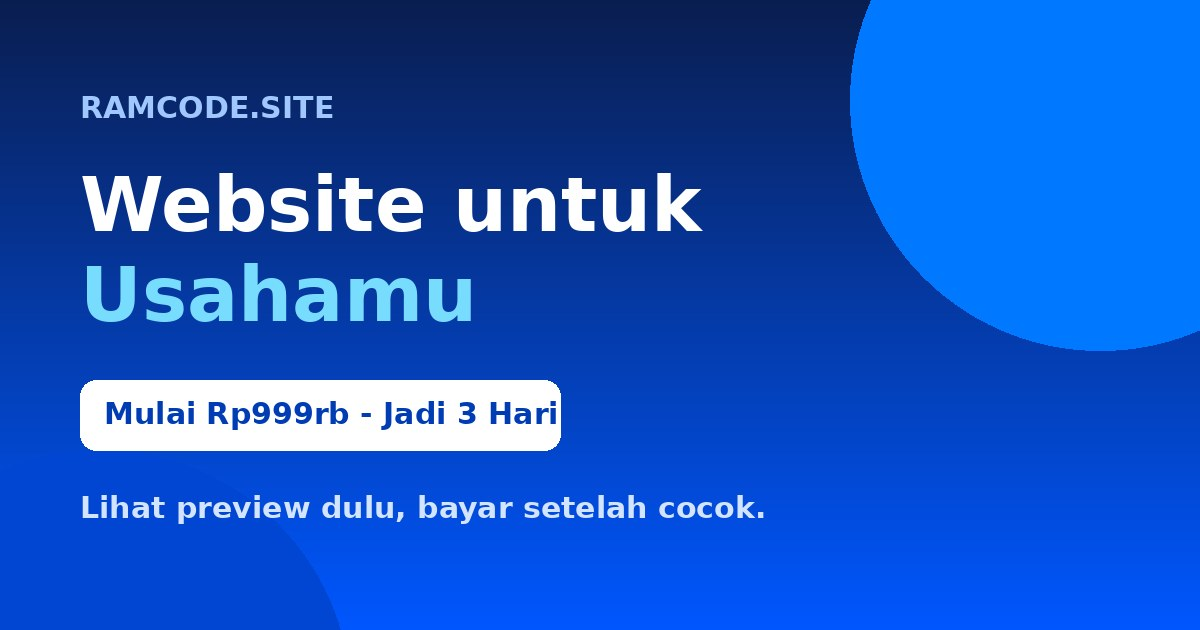
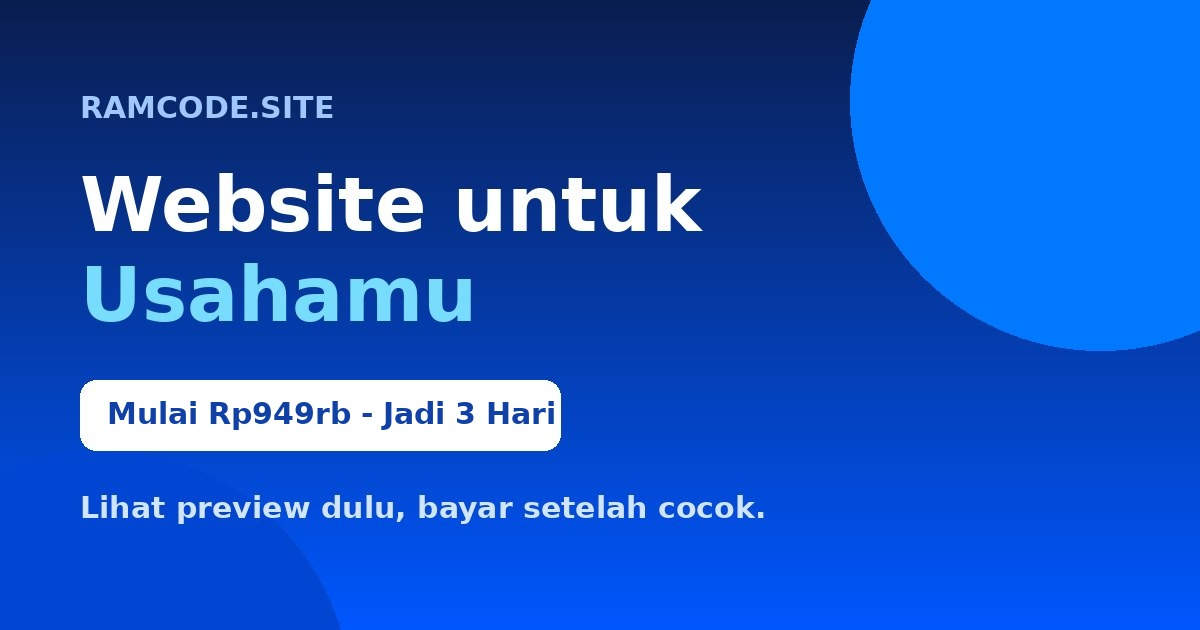
Harga Landing Page Rp999rb -> Rp949rb (incl. OG image), klaim project 12+ -> 20+

Changed region(s): [[0.0617, 0.6333, 0.3083, 0.6937], [0.3392, 0.6333, 0.4625, 0.6937]]

diff --git a/index.html b/index.html
@@ -6,7 +6,7 @@
     <!-- Primary Meta Tags -->
     <title>Ramcode.site - Jasa Pembuatan Website Bandung yang Menghasilkan</title>
     <meta name="title" content="Ramcode.site - Jasa Pembuatan Website Bandung yang Menghasilkan">
-    <meta name="description" content="Jasa pembuatan website Bandung untuk UMKM dan personal brand. Landing page mulai Rp999rb, jadi 3 hari, bayar setelah lihat preview. Bisa sistem kasir, booking, dan AI chat 24 jam.">
+    <meta name="description" content="Jasa pembuatan website Bandung untuk UMKM dan personal brand. Landing page mulai Rp949rb, jadi 3 hari, bayar setelah lihat preview. Bisa sistem kasir, booking, dan AI chat 24 jam.">
 
     <link rel="canonical" href="https://ramcode.site/">
 
@@ -14,14 +14,14 @@
     <meta property="og:type" content="website">
     <meta property="og:url" content="https://ramcode.site/">
     <meta property="og:title" content="Ramcode.site - Jasa Pembuatan Website Bandung yang Menghasilkan">
-    <meta property="og:description" content="Website untuk UMKM Bandung mulai Rp999rb, jadi 3 hari. Lihat preview dulu, bayar setelah cocok.">
+    <meta property="og:description" content="Website untuk UMKM Bandung mulai Rp949rb, jadi 3 hari. Lihat preview dulu, bayar setelah cocok.">
     <meta property="og:image" content="https://ramcode.site/og-image.jpg">
 
     <!-- Twitter -->
     <meta property="twitter:card" content="summary_large_image">
     <meta property="twitter:url" content="https://ramcode.site/">
     <meta property="twitter:title" content="Ramcode.site - Jasa Pembuatan Website Bandung yang Menghasilkan">
-    <meta property="twitter:description" content="Website untuk UMKM Bandung mulai Rp999rb, jadi 3 hari. Lihat preview dulu, bayar setelah cocok.">
+    <meta property="twitter:description" content="Website untuk UMKM Bandung mulai Rp949rb, jadi 3 hari. Lihat preview dulu, bayar setelah cocok.">
 
     <meta property="twitter:image" content="https://ramcode.site/og-image.jpg">
 
@@ -36,7 +36,7 @@
         "@id": "https://ramcode.site",
         "url": "https://ramcode.site",
         "telephone": "+6287792182223",
-        "priceRange": "Rp999.000 - Rp4.900.000",
+        "priceRange": "Rp949.000 - Rp4.900.000",
         "address": {
           "@type": "PostalAddress",
           "addressLocality": "Bandung",
@@ -247,7 +247,7 @@
                             <span class="text-[8px] md:text-[9px] font-bold text-slate-400 uppercase tracking-widest">Mulai Dari</span>
                         </div>
                         <div>
-                            <p class="text-2xl md:text-3xl font-extrabold text-accent group-hover:text-primary transition-colors leading-none">Rp999rb</p>
+                            <p class="text-2xl md:text-3xl font-extrabold text-accent group-hover:text-primary transition-colors leading-none">Rp949rb</p>
                             <p class="text-[9px] md:text-[10px] font-bold uppercase tracking-widest text-slate-400 mt-2">Website Jadi 3 Hari</p>
                         </div>
                     </a>
@@ -364,7 +364,7 @@
                     <div class="flex flex-wrap items-center gap-4 md:gap-6">
                         <div class="text-center px-4">
                             <p class="text-[9px] font-bold uppercase tracking-widest text-slate-400 mb-1">Landing Page <span class="text-green-600">· Promo</span></p>
-                            <p class="text-xl md:text-2xl font-extrabold text-accent"><span class="text-xs font-bold text-slate-400 line-through mr-1">Rp1,49jt</span>Rp999rb</p>
+                            <p class="text-xl md:text-2xl font-extrabold text-accent"><span class="text-xs font-bold text-slate-400 line-through mr-1">Rp1,49jt</span>Rp949rb</p>
                         </div>
                         <div class="text-center px-4 border-x border-ocean-border">
                             <p class="text-[9px] font-bold uppercase tracking-widest text-slate-400 mb-1">Website Bisnis</p>
@@ -444,7 +444,7 @@
                 </div>
                 <div class="col-span-12 lg:col-span-5 bento-block bg-primary p-8 md:p-12 flex flex-col items-center justify-center text-center relative overflow-hidden group">
                     <div class="bg-white/10 p-10 md:p-12 rounded-2xl backdrop-blur-sm border border-white/20 z-10 transition-transform group-hover:scale-110">
-                        <span class="text-6xl md:text-7xl font-extrabold text-white block mb-2">12+</span>
+                        <span class="text-6xl md:text-7xl font-extrabold text-white block mb-2">20+</span>
                         <p class="text-white/80 font-bold uppercase tracking-[0.3em] text-[10px]">Proyek Dikerjakan</p>
                     </div>
                     <div class="absolute top-0 right-0 p-4 transition-opacity group-hover:opacity-40 opacity-20">
@@ -697,7 +697,7 @@
                     
                     <div class="relative z-20">
                         <h2 class="text-4xl md:text-8xl font-extrabold tracking-tighter text-white mb-6 md:mb-10 leading-[1] md:leading-[0.9]">Usahamu Layak <br/><span class="text-primary italic">Dilirik</span></h2>
-                        <p class="text-base md:text-xl text-slate-400 max-w-2xl mx-auto mb-10 md:mb-16 leading-relaxed">Ceritakan usahamu, kami buatkan preview websitenya gratis. Cocok baru bayar, mulai Rp999rb, jadi 3 hari.</p>
+                        <p class="text-base md:text-xl text-slate-400 max-w-2xl mx-auto mb-10 md:mb-16 leading-relaxed">Ceritakan usahamu, kami buatkan preview websitenya gratis. Cocok baru bayar, mulai Rp949rb, jadi 3 hari.</p>
                         
                         <div class="flex flex-wrap justify-center gap-6 md:gap-8">
                             <a href="https://wa.me/6287792182223?text=Halo%20Ramcode,%20saya%20mau%20dibuatkan%20preview%20website%20untuk%20usaha%20saya" target="_blank" class="bg-primary text-white px-8 md:px-12 py-4 md:py-5 font-extrabold text-sm uppercase tracking-[0.2em] md:tracking-[0.3em] hover:bg-white hover:text-accent transition-all rounded-xl md:rounded-2xl shadow-2xl shadow-primary/40 transform hover:-translate-y-1 flex items-center justify-center">

diff --git a/layanan.html b/layanan.html
@@ -6,7 +6,7 @@
     <!-- Primary Meta Tags -->
     <title>Layanan - Ramcode.site</title>
     <meta name="title" content="Layanan - Ramcode.site">
-    <meta name="description" content="Jasa pembuatan website Bandung untuk UMKM dan personal brand. Landing page mulai Rp999rb, jadi 3 hari, bayar setelah lihat preview. Bisa sistem kasir, booking, dan AI chat 24 jam.">
+    <meta name="description" content="Jasa pembuatan website Bandung untuk UMKM dan personal brand. Landing page mulai Rp949rb, jadi 3 hari, bayar setelah lihat preview. Bisa sistem kasir, booking, dan AI chat 24 jam.">
 
     <link rel="canonical" href="https://ramcode.site/layanan.html">
 
@@ -14,14 +14,14 @@
     <meta property="og:type" content="website">
     <meta property="og:url" content="https://ramcode.site/layanan.html">
     <meta property="og:title" content="Layanan & Harga - Ramcode.site">
-    <meta property="og:description" content="Website untuk UMKM Bandung mulai Rp999rb, jadi 3 hari. Lihat preview dulu, bayar setelah cocok.">
+    <meta property="og:description" content="Website untuk UMKM Bandung mulai Rp949rb, jadi 3 hari. Lihat preview dulu, bayar setelah cocok.">
     <meta property="og:image" content="https://ramcode.site/og-image.jpg">
 
     <!-- Twitter -->
     <meta property="twitter:card" content="summary_large_image">
     <meta property="twitter:url" content="https://ramcode.site/layanan.html">
     <meta property="twitter:title" content="Layanan & Harga - Ramcode.site">
-    <meta property="twitter:description" content="Website untuk UMKM Bandung mulai Rp999rb, jadi 3 hari. Lihat preview dulu, bayar setelah cocok.">
+    <meta property="twitter:description" content="Website untuk UMKM Bandung mulai Rp949rb, jadi 3 hari. Lihat preview dulu, bayar setelah cocok.">
 
     <meta property="twitter:image" content="https://ramcode.site/og-image.jpg">
 
@@ -36,7 +36,7 @@
         "@id": "https://ramcode.site",
         "url": "https://ramcode.site",
         "telephone": "+6287792182223",
-        "priceRange": "Rp999.000 - Rp4.900.000",
+        "priceRange": "Rp949.000 - Rp4.900.000",
         "address": {
           "@type": "PostalAddress",
           "addressLocality": "Bandung",
@@ -292,7 +292,7 @@
                             </div>
                             <h4 class="text-xl font-extrabold text-accent mb-2">Landing Page</h4>
                             <p class="text-sm font-bold text-slate-400 line-through mb-0.5">Rp1,49jt</p>
-                            <p class="text-3xl md:text-4xl font-extrabold text-accent mb-1">Rp999<span class="text-base font-bold text-slate-400">rb</span></p>
+                            <p class="text-3xl md:text-4xl font-extrabold text-accent mb-1">Rp949<span class="text-base font-bold text-slate-400">rb</span></p>
                             <p class="text-[10px] font-bold uppercase tracking-widest text-slate-400 mb-6">Sekali bayar</p>
                             <ul class="text-sm text-slate-500 leading-relaxed space-y-3 mb-8 flex-1">
                                 <li class="flex gap-2"><span class="material-symbols-outlined text-primary text-base">check</span>1 halaman fokus jualan, desain custom sesuai brand</li>
@@ -309,7 +309,7 @@
                                 <li class="flex gap-2"><span class="material-symbols-outlined text-primary text-base">check</span>3x revisi mayor (besar)</li>
                                 <li class="flex gap-2"><span class="material-symbols-outlined text-primary text-base">check</span>Lihat preview dulu, bayar kalau cocok</li>
                             </ul>
-                            <a href="https://wa.me/6287792182223?text=Halo%20Ramcode,%20saya%20tertarik%20paket%20Landing%20Page%20Rp999rb" target="_blank" class="w-full border border-ocean-border bg-white px-6 py-3.5 font-bold text-[10px] uppercase tracking-widest hover:bg-primary hover:text-white hover:border-primary transition-all rounded-xl flex items-center justify-center">
+                            <a href="https://wa.me/6287792182223?text=Halo%20Ramcode,%20saya%20tertarik%20paket%20Landing%20Page%20Rp949rb" target="_blank" class="w-full border border-ocean-border bg-white px-6 py-3.5 font-bold text-[10px] uppercase tracking-widest hover:bg-primary hover:text-white hover:border-primary transition-all rounded-xl flex items-center justify-center">
                                 Pilih Paket Ini
                             </a>
                         </div>
@@ -430,7 +430,7 @@
                 </div>
                 <div class="col-span-12 lg:col-span-5 bento-block bg-primary p-8 md:p-12 flex flex-col items-center justify-center text-center relative overflow-hidden group">
                     <div class="bg-white/10 p-10 md:p-12 rounded-2xl backdrop-blur-sm border border-white/20 z-10 transition-transform group-hover:scale-110">
-                        <span class="text-6xl md:text-7xl font-extrabold text-white block mb-2">12+</span>
+                        <span class="text-6xl md:text-7xl font-extrabold text-white block mb-2">20+</span>
                         <p class="text-white/80 font-bold uppercase tracking-[0.3em] text-[10px]">Proyek Dikerjakan</p>
                     </div>
                     <div class="absolute top-0 right-0 p-4 transition-opacity group-hover:opacity-40 opacity-20">

diff --git a/faq.html b/faq.html
@@ -6,7 +6,7 @@
     <!-- Primary Meta Tags -->
     <title>FAQ - Ramcode.site</title>
     <meta name="title" content="FAQ - Ramcode.site">
-    <meta name="description" content="Jasa pembuatan website Bandung untuk UMKM dan personal brand. Landing page mulai Rp999rb, jadi 3 hari, bayar setelah lihat preview. Bisa sistem kasir, booking, dan AI chat 24 jam.">
+    <meta name="description" content="Jasa pembuatan website Bandung untuk UMKM dan personal brand. Landing page mulai Rp949rb, jadi 3 hari, bayar setelah lihat preview. Bisa sistem kasir, booking, dan AI chat 24 jam.">
 
     <link rel="canonical" href="https://ramcode.site/faq.html">
 
@@ -14,14 +14,14 @@
     <meta property="og:type" content="website">
     <meta property="og:url" content="https://ramcode.site/faq.html">
     <meta property="og:title" content="FAQ - Ramcode.site">
-    <meta property="og:description" content="Website untuk UMKM Bandung mulai Rp999rb, jadi 3 hari. Lihat preview dulu, bayar setelah cocok.">
+    <meta property="og:description" content="Website untuk UMKM Bandung mulai Rp949rb, jadi 3 hari. Lihat preview dulu, bayar setelah cocok.">
     <meta property="og:image" content="https://ramcode.site/og-image.jpg">
 
     <!-- Twitter -->
     <meta property="twitter:card" content="summary_large_image">
     <meta property="twitter:url" content="https://ramcode.site/faq.html">
     <meta property="twitter:title" content="FAQ - Ramcode.site">
-    <meta property="twitter:description" content="Website untuk UMKM Bandung mulai Rp999rb, jadi 3 hari. Lihat preview dulu, bayar setelah cocok.">
+    <meta property="twitter:description" content="Website untuk UMKM Bandung mulai Rp949rb, jadi 3 hari. Lihat preview dulu, bayar setelah cocok.">
 
     <meta property="twitter:image" content="https://ramcode.site/og-image.jpg">
 
@@ -36,7 +36,7 @@
         "@id": "https://ramcode.site",
         "url": "https://ramcode.site",
         "telephone": "+6287792182223",
-        "priceRange": "Rp999.000 - Rp4.900.000",
+        "priceRange": "Rp949.000 - Rp4.900.000",
         "address": {
           "@type": "PostalAddress",
           "addressLocality": "Bandung",
@@ -321,7 +321,7 @@
                     
                     <div class="relative z-20">
                         <h2 class="text-4xl md:text-8xl font-extrabold tracking-tighter text-white mb-6 md:mb-10 leading-[1] md:leading-[0.9]">Usahamu Layak <br/><span class="text-primary italic">Dilirik</span></h2>
-                        <p class="text-base md:text-xl text-slate-400 max-w-2xl mx-auto mb-10 md:mb-16 leading-relaxed">Ceritakan usahamu, kami buatkan preview websitenya gratis. Cocok baru bayar, mulai Rp999rb, jadi 3 hari.</p>
+                        <p class="text-base md:text-xl text-slate-400 max-w-2xl mx-auto mb-10 md:mb-16 leading-relaxed">Ceritakan usahamu, kami buatkan preview websitenya gratis. Cocok baru bayar, mulai Rp949rb, jadi 3 hari.</p>
                         
                         <div class="flex flex-wrap justify-center gap-6 md:gap-8">
                             <a href="https://wa.me/6287792182223?text=Halo%20Ramcode,%20saya%20mau%20dibuatkan%20preview%20website%20untuk%20usaha%20saya" target="_blank" class="bg-primary text-white px-8 md:px-12 py-4 md:py-5 font-extrabold text-sm uppercase tracking-[0.2em] md:tracking-[0.3em] hover:bg-white hover:text-accent transition-all rounded-xl md:rounded-2xl shadow-2xl shadow-primary/40 transform hover:-translate-y-1 flex items-center justify-center">

diff --git a/proyek.html b/proyek.html
@@ -4,7 +4,7 @@
     <meta charset="utf-8"/>
     <meta content="width=device-width, initial-scale=1.0" name="viewport"/>
     <title>Proyek - Ramcode.site</title>
-    <meta name="description" content="Studi kasus project Ramcode: masalah klien, solusi yang dibangun, dan hasilnya. Website untuk UMKM Bandung mulai Rp999rb, jadi 3 hari.">
+    <meta name="description" content="Studi kasus project Ramcode: masalah klien, solusi yang dibangun, dan hasilnya. Website untuk UMKM Bandung mulai Rp949rb, jadi 3 hari.">
     <meta name="robots" content="noindex, follow">
 
     <link rel="preconnect" href="https://fonts.googleapis.com">
@@ -143,7 +143,7 @@
             <section class="col-span-12 mb-6">
                 <div class="bento-block p-8 md:p-14 bg-primary text-center relative overflow-hidden">
                     <h2 class="text-2xl md:text-4xl font-extrabold text-white mb-4">Usahamu Juga Bisa Punya yang Begini</h2>
-                    <p class="text-white/80 max-w-xl mx-auto mb-8 text-sm md:text-base">Lihat dulu preview website untuk usahamu sendiri. Cocok baru bayar, mulai Rp999rb.</p>
+                    <p class="text-white/80 max-w-xl mx-auto mb-8 text-sm md:text-base">Lihat dulu preview website untuk usahamu sendiri. Cocok baru bayar, mulai Rp949rb.</p>
                     <div class="flex flex-wrap justify-center gap-4">
                         <a id="p-wa2" href="#" target="_blank" class="inline-flex bg-white text-primary px-8 py-4 font-extrabold text-xs uppercase tracking-widest hover:bg-accent hover:text-white transition-all rounded-xl shadow-xl">Minta Preview Gratis</a>
                         <a href="layanan.html#harga" class="inline-flex border border-white/30 text-white px-8 py-4 font-extrabold text-xs uppercase tracking-widest hover:bg-white/10 transition-all rounded-xl">Lihat Paket &amp; Harga</a>
